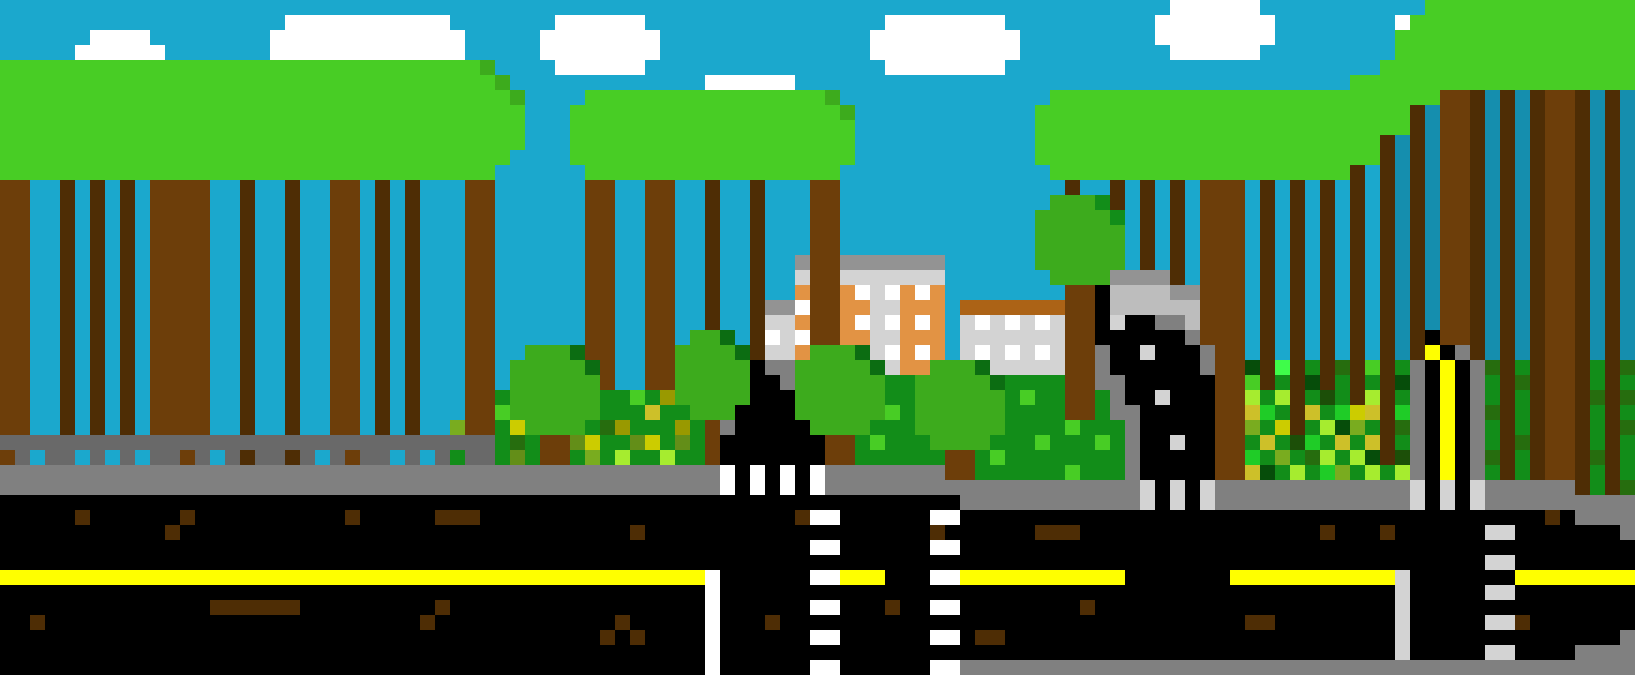
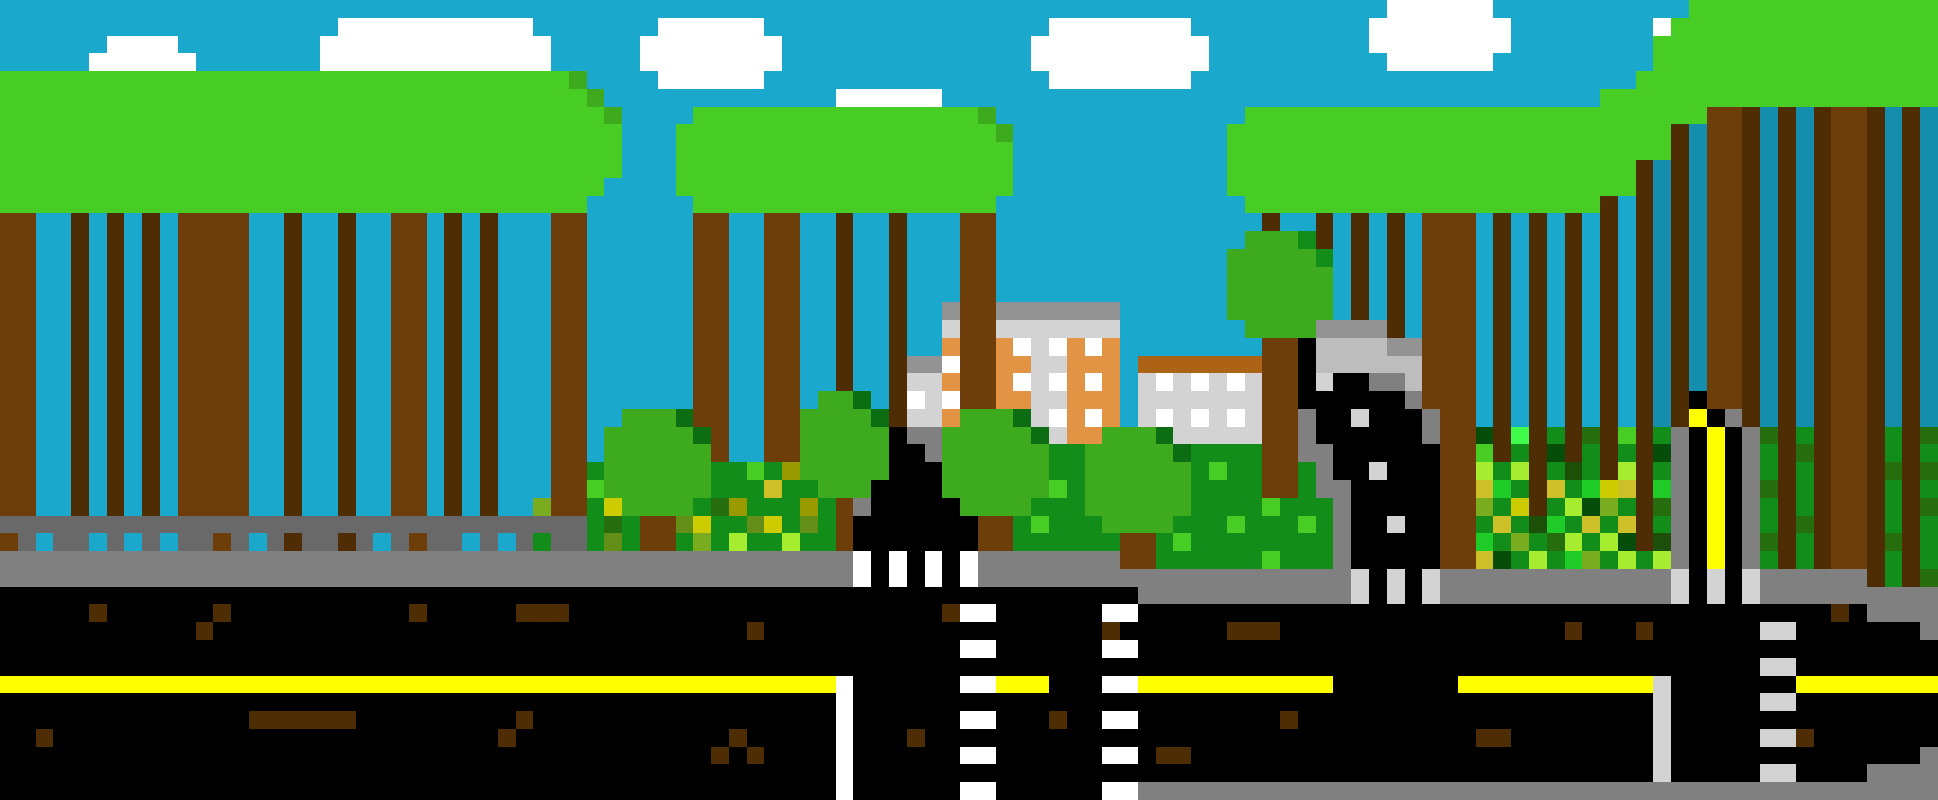
ahhhhh

diff --git a/js/chr/p2layer.js b/js/chr/p2layer.js
@@ -4,7 +4,7 @@ var PIXBIT = 8;
 function P2layer(game, key, frame, bulletKey) {
 	// Phaser.Sprite(game, x, y, key)
 	// game.rnd.integerInRange(min, max) returns rand int between min, max
-	Phaser.Sprite.call(this, game, 30, 200, key);
+	Phaser.Sprite.call(this, game, 8000, 4000, key);
 	//Phaser.Sprite.call(this, game, 7000, 200, key);
 	//for level 2 testing
 	//Phaser.Sprite.call(this, game, 5940, 3610, key);
@@ -43,9 +43,10 @@ function P2layer(game, key, frame, bulletKey) {
 	this.pooCount = MAXPOO/2;
 	game.timer = game.time.create(true);
 	game.timer.loop(600, function() {
+		if (this.alive) {
 		this.pooCount++;
 		this.death();
-		}, this);
+		}}, this);
 
 	// Bullets
 	this.bullets = game.add.group();

diff --git a/js/state/menu.js b/js/state/menu.js
@@ -76,7 +76,7 @@ menu.prototype = {
 		if (game.input.keyboard.justPressed(Phaser.Keyboard.SPACEBAR)) {
 			switch (this.mCount%3) {
 				case 0:
-					game.state.start('play');
+					game.state.start('play2');
 					BGM[0].stop();
 					break;
 				case 1:
